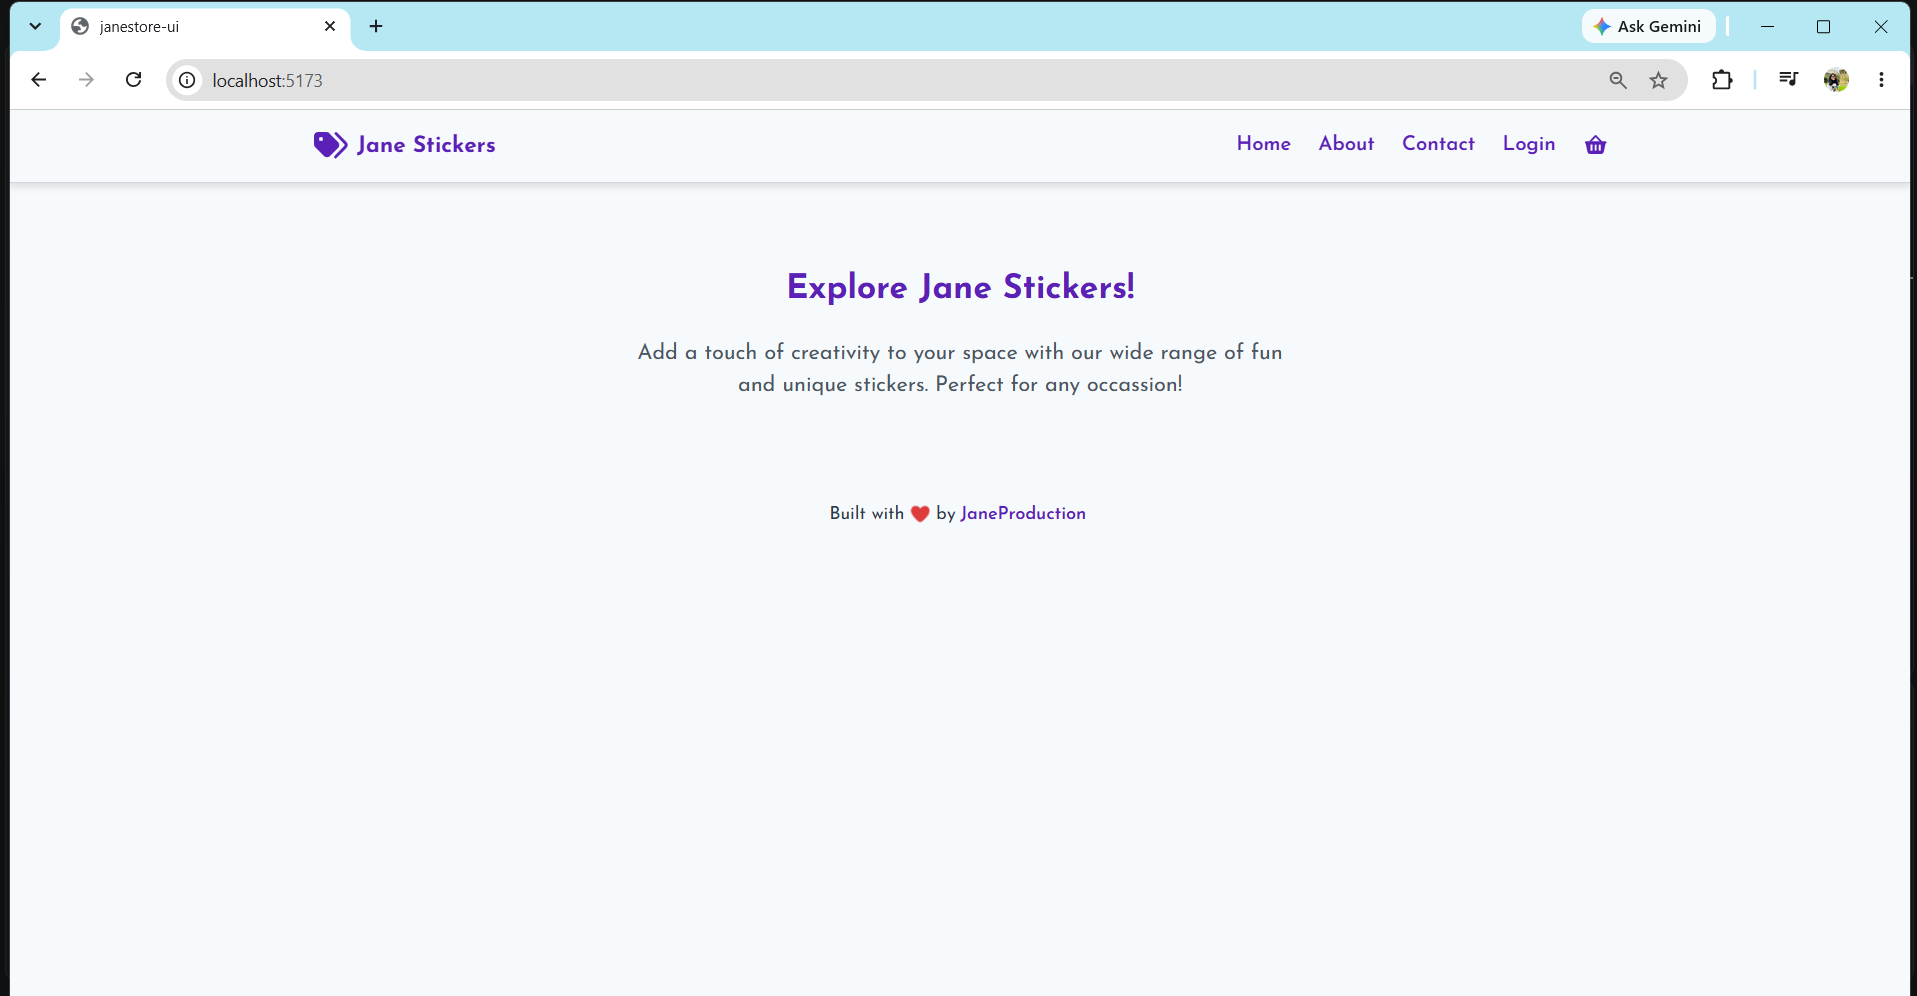
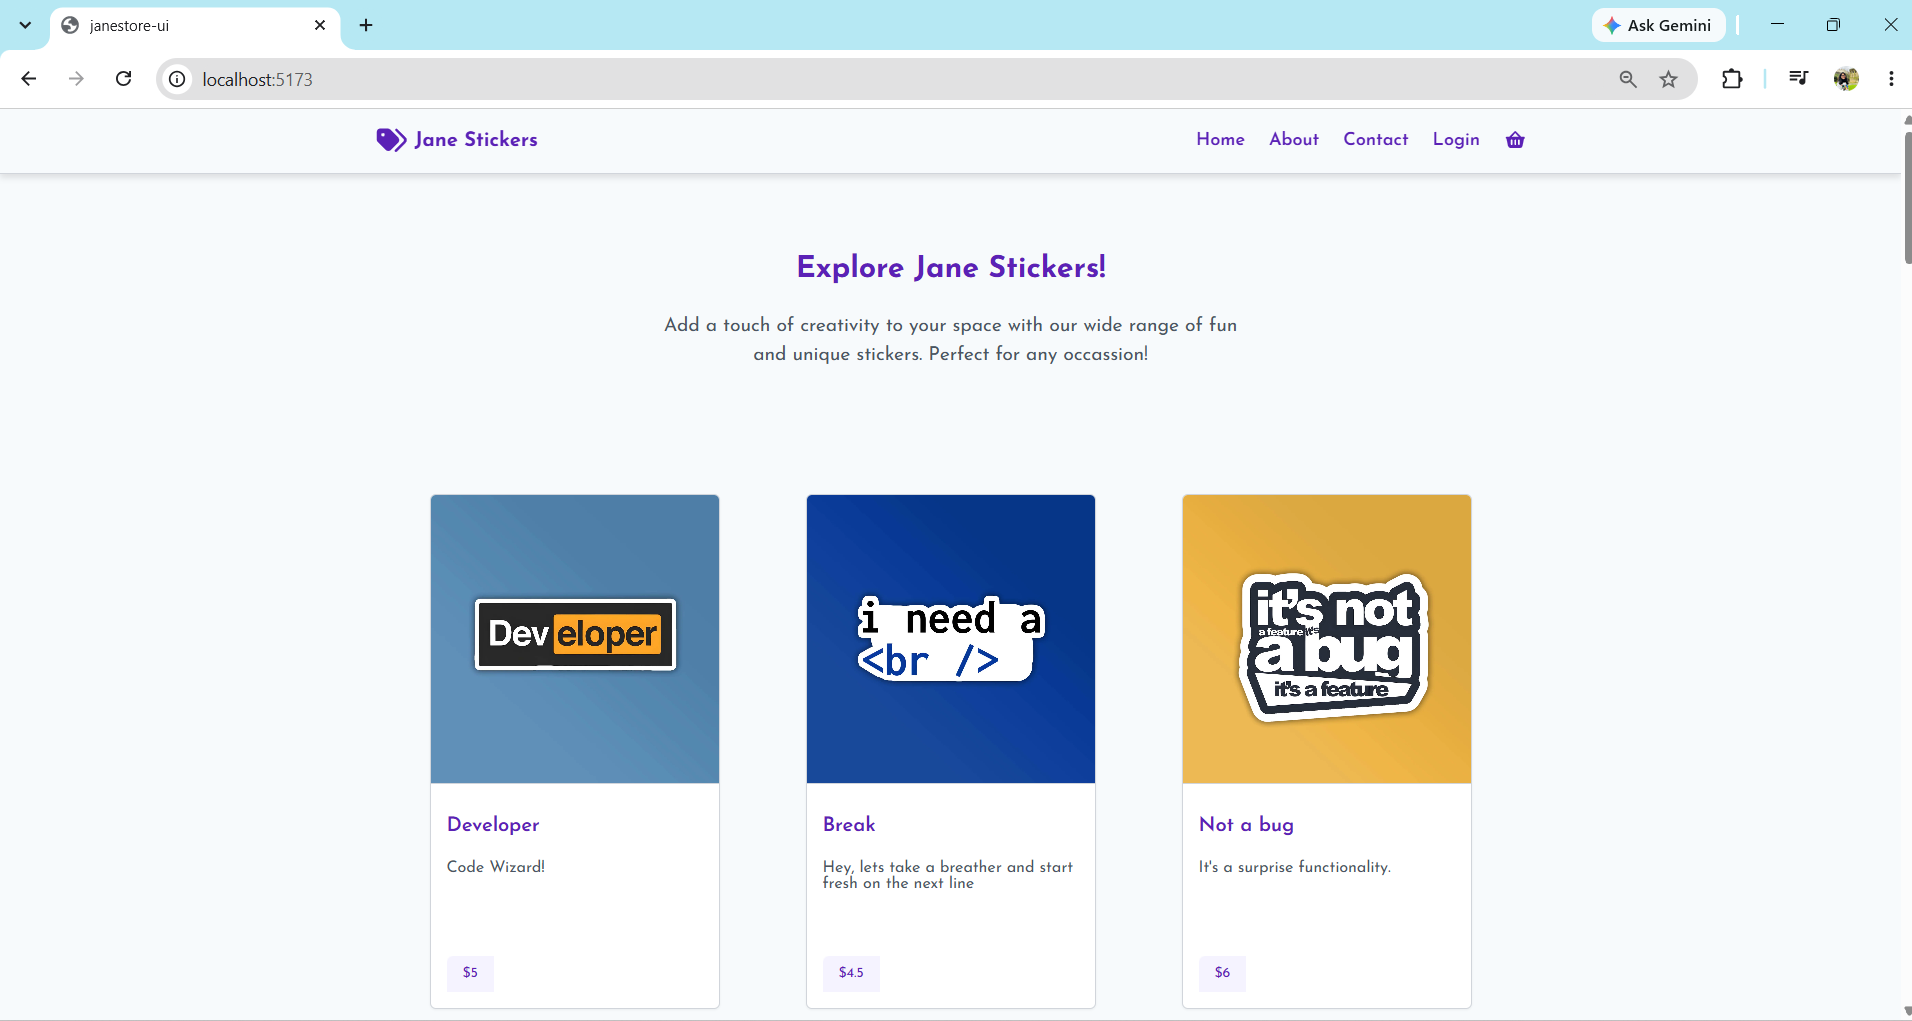
show product cards

diff --git a/src/data/products.js b/src/data/products.js
@@ -1,0 +1,275 @@
+import developerImage from "../assets/stickers/developer.png";
+import breakImage from "../assets/stickers/break.png";
+import itsnotabugImage from "../assets/stickers/itsnotabug.png";
+import EatSleepCodeImage from "../assets/stickers/EatSleepCode.png";
+import BreakingCodeImage from "../assets/stickers/BreakingCode.png";
+import youaremycssImage from "../assets/stickers/youaremycss.png";
+import CoolAstraunautImage from "../assets/stickers/CoolAstraunaut.png";
+import MbappeImage from "../assets/stickers/Mbappe.png";
+import ronaldoImage from "../assets/stickers/ronaldo.png";
+import MyDrivingScaresMeTooImage from "../assets/stickers/MyDrivingScaresMeToo.png";
+import HouseOfTheDragonSymbolImage from "../assets/stickers/HouseOfTheDragonSymbol.png";
+import SquidGameImage from "../assets/stickers/SquidGame.png";
+import ShinchanImage from "../assets/stickers/Shinchan.png";
+import GameOverImage from "../assets/stickers/GameOver.png";
+import MessiImage from "../assets/stickers/Messi.png";
+import ViratImage from "../assets/stickers/Virat.png";
+import LazyCatImage from "../assets/stickers/LazyCat.png";
+import OverThinkerImage from "../assets/stickers/OverThinker.png";
+import NarutoImage from "../assets/stickers/Naruto.png";
+import GokuImage from "../assets/stickers/Goku.png";
+import IamOkayImage from "../assets/stickers/IamOkay.png";
+import BooImage from "../assets/stickers/Boo.png";
+import EwFeelingsImage from "../assets/stickers/EwFeelings.png";
+import BeWildImage from "../assets/stickers/BeWild.png";
+import AestheticSummerCatImage from "../assets/stickers/AestheticSummerCat.png";
+import YourOpinonMeansNothingImage from "../assets/stickers/YourOpinonMeansNothing.png";
+import SociallyAwkwardImage from "../assets/stickers/SociallyAwkward.png";
+import ButterflyImage from "../assets/stickers/Butterfly.png";
+import IWon_tHesitateStickerImage from "../assets/stickers/IWon_tHesitateSticker.png";
+import EvilEyeImage from "../assets/stickers/EvilEye.png";
+
+const products = [
+  {
+    productId: 1,
+    name: "Developer",
+    description: "Code Wizard!",
+    price: 5.0,
+    popularity: "85",
+    imageUrl: developerImage,
+  },
+  {
+    productId: 2,
+    name: "Break",
+    description: "Hey, lets take a breather and start fresh on the next line",
+    price: 4.5,
+    popularity: "40",
+    imageUrl: breakImage,
+  },
+  {
+    productId: 3,
+    name: "Not a bug ",
+    description: "It's a surprise functionality.",
+    price: 6.0,
+    popularity: "98",
+    imageUrl: itsnotabugImage,
+  },
+  {
+    productId: 4,
+    name: "Devster",
+    description: "They exist!",
+    price: 5.0,
+    popularity: "72",
+    imageUrl: EatSleepCodeImage,
+  },
+  {
+    productId: 5,
+    name: "CodeSmasher",
+    description: "Fearless developer!",
+    price: 7.5,
+    popularity: "88",
+    imageUrl: BreakingCodeImage,
+  },
+  {
+    productId: 6,
+    name: "CodeMate",
+    description: "Without you, I'm incomplete!",
+    price: 2.0,
+    popularity: "79",
+    imageUrl: youaremycssImage,
+  },
+  {
+    productId: 7,
+    name: "Mbappé",
+    description: "Phenomenal!",
+    price: 8.0,
+    popularity: "55",
+    imageUrl: MbappeImage,
+  },
+  {
+    productId: 8,
+    name: "AstroChill",
+    description: "Cool for gravity!",
+    price: 3.0,
+    popularity: "52",
+    imageUrl: CoolAstraunautImage,
+  },
+  {
+    productId: 9,
+    name: "Ronaldo",
+    description: "Legendary!",
+    price: 8.0,
+    popularity: "100",
+    imageUrl: ronaldoImage,
+  },
+  {
+    productId: 10,
+    name: "My Driving Scares Me Too",
+    description: "They exist!",
+    price: 5.0,
+    popularity: "65",
+    imageUrl: MyDrivingScaresMeTooImage,
+  },
+  {
+    productId: 11,
+    name: "Three headed dragon symbol",
+    description: "Targaryen dynasty strength",
+    price: 9.0,
+    popularity: "98",
+    imageUrl: HouseOfTheDragonSymbolImage,
+  },
+  {
+    productId: 12,
+    name: "Squid Game",
+    description: "Lets play",
+    price: 5.0,
+    popularity: "70",
+    imageUrl: SquidGameImage,
+  },
+  {
+    productId: 13,
+    name: "Shin-Chan",
+    description: "Mischievous!",
+    price: 5.0,
+    popularity: "70",
+    imageUrl: ShinchanImage,
+  },
+  {
+    productId: 14,
+    name: "Game over",
+    description: "Game over!",
+    price: 5.0,
+    popularity: "50",
+    imageUrl: GameOverImage,
+  },
+  {
+    productId: 15,
+    name: "Messi",
+    description: "Magical!",
+    price: 10.0,
+    popularity: "99",
+    imageUrl: MessiImage,
+  },
+  {
+    productId: 16,
+    name: "Virat Kohli",
+    description: "King",
+    price: 9.0,
+    popularity: "99",
+    imageUrl: ViratImage,
+  },
+  {
+    productId: 17,
+    name: "Lazy Cat",
+    description: "Not Today",
+    price: 6.0,
+    popularity: "60",
+    imageUrl: LazyCatImage,
+  },
+  {
+    productId: 18,
+    name: "Busy Brain",
+    description: "Overthinker!",
+    price: 4.0,
+    popularity: "50",
+    imageUrl: OverThinkerImage,
+  },
+  {
+    productId: 19,
+    name: "Naruto",
+    description: "Ninja!",
+    price: 6.0,
+    popularity: "60",
+    imageUrl: NarutoImage,
+  },
+  {
+    productId: 20,
+    name: "Goku",
+    description: "Warrior!",
+    price: 6.0,
+    popularity: "60",
+    imageUrl: GokuImage,
+  },
+  {
+    productId: 21,
+    name: "I am okay",
+    description: "Persistent!",
+    price: 6.0,
+    popularity: "60",
+    imageUrl: IamOkayImage,
+  },
+  {
+    productId: 22,
+    name: "Boo",
+    description: "Disapproval!",
+    price: 6.0,
+    popularity: "60",
+    imageUrl: BooImage,
+  },
+  {
+    productId: 23,
+    name: "EW feeling",
+    description: "Disgust!",
+    price: 6.0,
+    popularity: "60",
+    imageUrl: EwFeelingsImage,
+  },
+  {
+    productId: 24,
+    name: "Be wild",
+    description: "Unleashed!",
+    price: 6.0,
+    popularity: "60",
+    imageUrl: BeWildImage,
+  },
+  {
+    productId: 25,
+    name: "SummerCat",
+    description: "Heatwave Whiskers",
+    price: 6.0,
+    popularity: "60",
+    imageUrl: AestheticSummerCatImage,
+  },
+  {
+    productId: 26,
+    name: "Savageness",
+    description: "Your opinion means nothing",
+    price: 6.0,
+    popularity: "60",
+    imageUrl: YourOpinonMeansNothingImage,
+  },
+  {
+    productId: 27,
+    name: "Awkweird",
+    description: "Awkward and Weird",
+    price: 6.0,
+    popularity: "60",
+    imageUrl: SociallyAwkwardImage,
+  },
+  {
+    productId: 28,
+    name: "Blue Butterfly",
+    description: "Gracewing",
+    price: 6.0,
+    popularity: "60",
+    imageUrl: ButterflyImage,
+  },
+  {
+    productId: 29,
+    name: "NoHesitation",
+    description: "Always ready to take charge!",
+    price: 6.0,
+    popularity: "60",
+    imageUrl: IWon_tHesitateStickerImage,
+  },
+  {
+    productId: 30,
+    name: "Wardgaze",
+    description: "Protective power of the evil eye",
+    price: 6.0,
+    popularity: "60",
+    imageUrl: EvilEyeImage,
+  },
+];
+
+export default products;

diff --git a/src/components/ProductCard.jsx b/src/components/ProductCard.jsx
@@ -3,21 +3,24 @@ import Price from './Price'
 
 function ProductCard({product}) {
   return (
-    <div className='product-card'>
-        <div className="product-card-image-container">
-            <img src={product.imageUrl} alt={product.name} className='product-image'/>
-            <div className="product-card-details">
-                <h2 className='product-card-title'>{product.name}</h2>
-                <p className="product-card-description">{product.description}</p>
-            </div>
+    <div className="product-card">
+          <div className="product-card-image-container">
+            <img
+              src={product.imageUrl}
+              alt={product.name}
+              className="product-card-image"
+            />
+          </div>
+          <div className="product-card-details">
+            <h2 className="product-card-title">{product.name}</h2>
+            <p className="product-card-description">{product.description}</p>
             <div className="product-card-footer">
-                <div className="product-card-price">
-                    <Price currency="$" price={product.price} />
-                </div>
+              <div className="product-card-price">
+                <Price currency="$" price={product.price} />
+              </div>
             </div>
+          </div>
         </div>
-      
-    </div>
   )
 }
 

diff --git a/src/components/ProductListings.jsx b/src/components/ProductListings.jsx
@@ -3,14 +3,17 @@ import ProductCard from './ProductCard'
 
 function ProductListings({products}) {
   return (
-    <div>
-        {products.length > 0 ?
-        products.map(product => (
-            <ProductCard key={product.id} product = {product} />
-        )): 
-            <p className='products-listing-empty'> No products found.</p>
-        }
-    </div>
+        <div className="product-listings-container">
+          <div className="product-listings-grid">
+            {products.length > 0 ? (
+              products.map((product) => (
+                <ProductCard key={product.productId} product={product} />
+              ))
+            ) : (
+              <p className="product-listings-empty">No products found</p>
+            )}
+          </div>
+        </div>
   )
 }
 

diff --git a/src/components/Home.jsx b/src/components/Home.jsx
@@ -1,6 +1,7 @@
 import React from 'react'
 import PageHeading from './PageHeading'
-
+import ProductListings from './ProductListings'
+import products from '../data/products'
 function Home() {
   return (
     <div className='home-container'>
@@ -8,6 +9,7 @@ function Home() {
           Add a touch of creativity to your space with our wide range of fun and unique stickers.
           Perfect for any occassion!
         </PageHeading>
+        <ProductListings products={products} />
       
     </div>
   )
